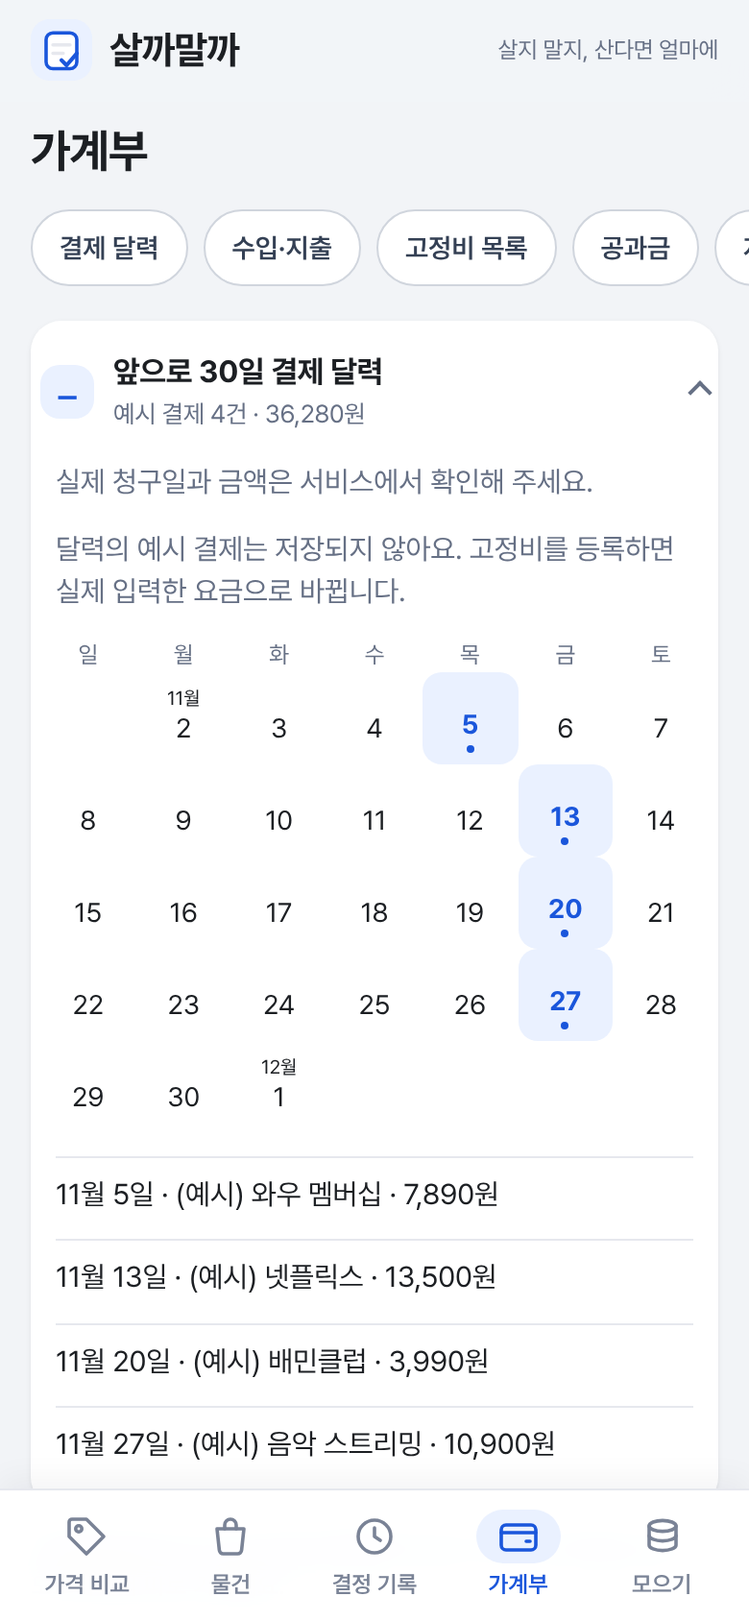
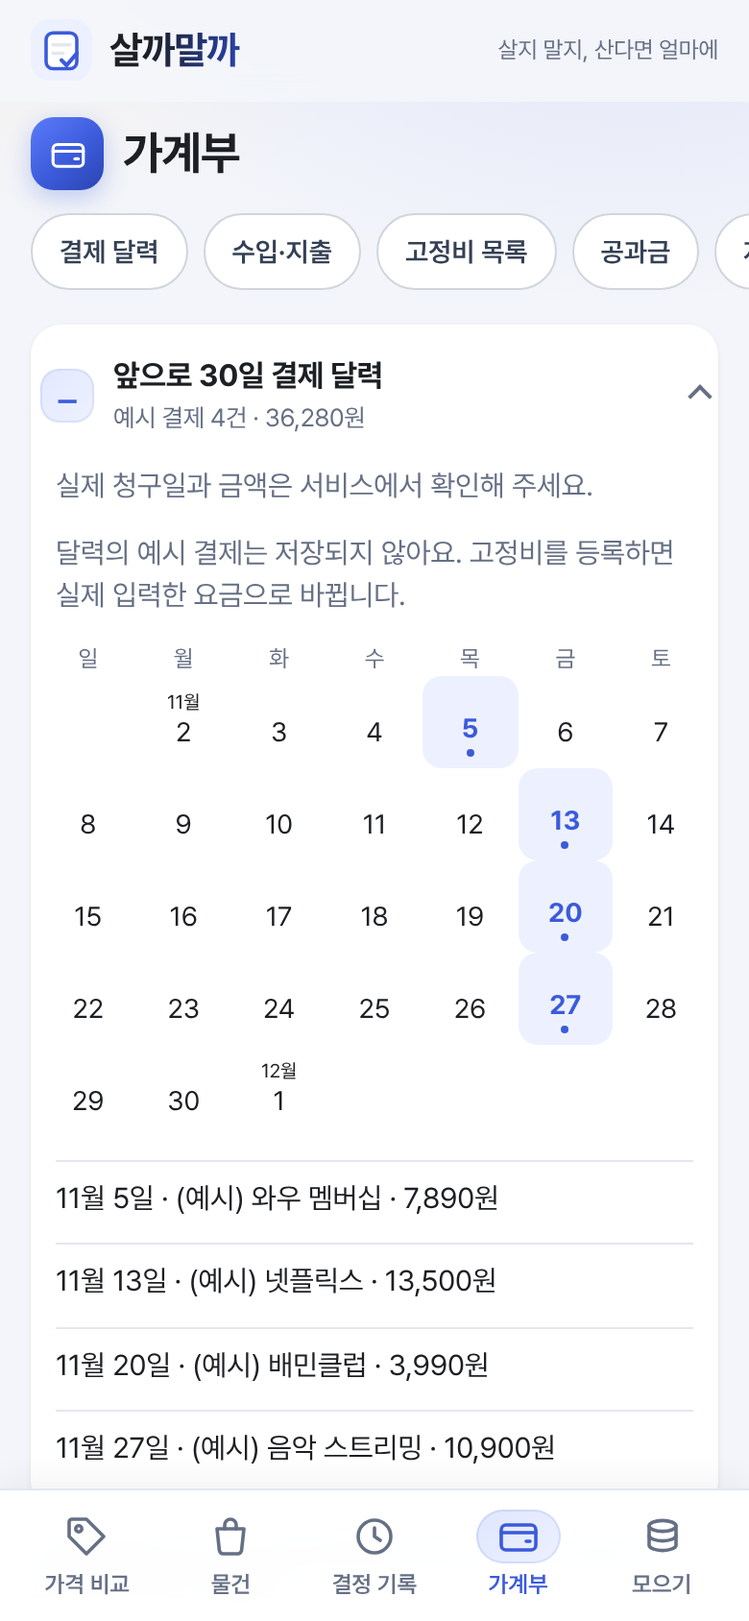
feat: refined blue palette with title badges and soft gradients
Third design pass, chosen by the maker from three color mockups; features
and copy unchanged.

- Accent #3b5bdb (5.67:1 on white), deep accent #2b44b0, background
  #f3f5fa, orange B-side marker; favicon and theme-color updated
- Inactive bottom-nav labels raised from 3.81:1 to 4.8:1 contrast
- Decorative icon badge before each screen title (aria-hidden), faint
  glow at the top of the page, gradient primary buttons and verdict box,
  gentle rise-in on tab change (off with prefers-reduced-motion)
- PRD 0.89, TODO 37-7, README screens recaptured

Checks: npm test 1994/1994, lint, tsc -b, eval tsc, PRD/TODO checks

Claude-Session: https://claude.ai/code/session_01S73EWn5NmGABmba2rb4uky

diff --git a/src/index.css b/src/index.css
@@ -1,13 +1,14 @@
 /* 디자인 토큰: 색상 4개(글자·보조 글자·강조·경고)와 회색 계열 보조 톤(배경·면·선·강조 바탕), 글꼴 하나
-   강조색은 밝은 배경 위에서 5.6:1, 강조 바탕 위에서 5.5:1로 WCAG AA(4.5:1)를 넘는다 */
+   강조색(2026-11-02 '세련된 블루' #3b5bdb)은 흰 바탕 5.67:1, 강조 바탕 위 5.03:1로 WCAG AA(4.5:1)를 넘는다.
+   아래 '디자인 개선' 절들이 이 값을 이어서 다듬는다 */
 :root {
   --bg: #f4f5f7;
   --surface: #ffffff;
   --ink: #1c1f23;
   --muted: #667085;
   --line: #e4e7ec;
-  --accent: #1a56db;
-  --accent-soft: #eaf1ff;
+  --accent: #3b5bdb;
+  --accent-soft: #edf1ff;
   --danger: #d92d20;
   --radius: 12px;
   --font:
@@ -1106,12 +1107,17 @@ button.payment-calendar-day {
    - 카드·입력·버튼의 모서리와 그림자, 글자 크기 단계를 하나로 맞춘다
    ─────────────────────────────────────────────────────────────── */
 :root {
-  --bg: #f2f4f7;
-  --surface-2: #f8f9fb;
-  --line: #e6e8ee;
+  /* 색감: 제작자 선택 '세련된 블루'(2026-11-02). 강조색 #3b5bdb는 흰 바탕 5.67:1, 바탕 #f3f5fa 5.2:1,
+     강조 바탕 #edf1ff 5.03:1, 진한 강조 #2b44b0은 강조 바탕 위 7.29:1로 모두 WCAG AA(4.5:1) 이상 */
+  --accent: #3b5bdb;
+  --accent-soft: #edf1ff;
+  --point: #f59f00;
+  --bg: #f3f5fa;
+  --surface-2: #f8f9fc;
+  --line: #e3e7f0;
   --line-strong: #d0d5dd;
   --ink-2: #344054;
-  --accent-ink: #1549b8;
+  --accent-ink: #2b44b0;
   --radius: 16px;
   --radius-sm: 12px;
   --shadow: 0 1px 2px rgb(16 24 40 / 4%), 0 1px 3px rgb(16 24 40 / 6%);
@@ -1135,7 +1141,7 @@ body {
   z-index: 20;
   margin: 0 -16px 8px;
   padding: 10px 16px;
-  background: rgb(242 244 247 / 92%);
+  background: rgb(243 245 250 / 92%);
   backdrop-filter: saturate(1.4) blur(10px);
   border-bottom: 1px solid transparent;
 }
@@ -1188,7 +1194,7 @@ body {
   border-radius: 12px;
   font-size: 12px;
   font-weight: 600;
-  color: #7a8396;
+  color: var(--muted); /* 흰 바탕 4.8:1 */
 }
 
 .tabs.tabs-main .tab-icon {
@@ -1221,7 +1227,7 @@ body {
   gap: 4px;
   padding: 4px;
   margin-bottom: 16px;
-  background: #e7eaf0;
+  background: #e4e8f2;
   border: 0;
   border-radius: 14px;
   overflow: visible;
@@ -1311,7 +1317,7 @@ main > section > details + details {
 .input:focus,
 .select:focus {
   border-color: var(--accent);
-  box-shadow: 0 0 0 4px rgb(26 86 219 / 12%);
+  box-shadow: 0 0 0 4px rgb(59 91 219 / 14%);
   outline: none;
 }
 
@@ -1355,7 +1361,7 @@ main > section > details + details {
 
 .btn-primary {
   min-height: 50px;
-  box-shadow: 0 1px 2px rgb(26 86 219 / 30%);
+  box-shadow: 0 1px 2px rgb(59 91 219 / 30%), 0 4px 12px rgb(59 91 219 / 16%);
 }
 
 .btn-primary:hover:not(:disabled) {
@@ -1632,7 +1638,7 @@ details[aria-label='자잘한 지출'] {
 
 .ab-grid > fieldset.card:nth-child(2) > legend.card-title::before,
 .ab-grid > form.card:nth-child(2) > .card-title:first-child::before {
-  background: #f79009;
+  background: var(--point);
 }
 
 /* 비교 결과: 결론 한 줄을 강조 바탕의 큰 글씨로. 카드 자체도 강조색 테두리 */
@@ -1739,4 +1745,136 @@ article.card [role='group'] .btn-row .btn {
   background: var(--surface-2);
   border-color: var(--line);
   border-radius: var(--radius-sm);
+}
+
+/* ───────────────────────────────────────────────────────────────
+   2026-11-02 디자인 개선 3차: 색감 '세련된 블루'와 장식 요소
+   모든 장식은 정보를 담지 않는다(아이콘은 aria-hidden, 그라데이션은 배경뿐)
+   ─────────────────────────────────────────────────────────────── */
+
+/* 화면 위쪽에 은은한 파란 빛. 아래로 갈수록 바탕색으로 사라진다 */
+body {
+  background:
+    radial-gradient(120% 340px at 85% -80px, rgb(59 91 219 / 13%), transparent 70%),
+    radial-gradient(90% 260px at 0% -60px, rgb(245 159 0 / 7%), transparent 70%),
+    var(--bg);
+  background-repeat: no-repeat;
+}
+
+.app-header {
+  background: rgb(243 245 250 / 94%);
+}
+
+/* 사이트 제목: 글자에 살짝 파란 그라데이션 */
+.brand {
+  background: linear-gradient(100deg, var(--ink) 30%, var(--accent-ink));
+  -webkit-background-clip: text;
+  background-clip: text;
+  color: transparent;
+}
+
+/* 화면 제목 앞의 아이콘 배지 */
+.screen-title {
+  display: flex;
+  align-items: center;
+  gap: 10px;
+}
+
+.title-icon {
+  display: grid;
+  place-items: center;
+  flex: none;
+  width: 38px;
+  height: 38px;
+  border-radius: 12px;
+  color: #fff;
+  background: linear-gradient(140deg, #5b7cfa, var(--accent) 55%, var(--accent-ink));
+  box-shadow: 0 4px 12px rgb(59 91 219 / 28%);
+}
+
+.title-icon svg {
+  width: 21px;
+  height: 21px;
+}
+
+/* 주 버튼: 위에서 아래로 살짝 밝아지는 파랑 */
+.btn-primary {
+  background: linear-gradient(180deg, #4c6ef5, var(--accent));
+  border-color: var(--accent);
+}
+
+.btn-primary:hover:not(:disabled) {
+  background: linear-gradient(180deg, var(--accent), var(--accent-ink));
+}
+
+/* 비교 결론 상자: 대각선 그라데이션과 왼쪽 강조선 */
+section.card[aria-label$='비교 결과'] > .price-lg {
+  background: linear-gradient(120deg, #edf1ff, #f5f0ff 60%, #fff7e6);
+  border-left: 4px solid var(--accent);
+}
+
+/* '이럴 때 써요' 결론 말풍선에도 같은 결 */
+.example-intro .intro-conclusion {
+  background: linear-gradient(120deg, #edf1ff, #f6f3ff);
+}
+
+/* 하단 메뉴: 선택된 아이콘 알약을 그라데이션으로, 위에 작은 막대 */
+.tabs.tabs-main .tab[aria-selected='true'] .tab-icon {
+  background: linear-gradient(140deg, #dfe6ff, var(--accent-soft));
+  box-shadow: inset 0 0 0 1px rgb(59 91 219 / 12%);
+}
+
+/* 접는 카드의 + 타일과 담기 + 타일을 작은 그라데이션 배지로 */
+.card.guide > summary.card-title::before,
+.entry-trigger::before {
+  background: linear-gradient(140deg, #e3e9ff, var(--accent-soft));
+  box-shadow: inset 0 0 0 1px rgb(59 91 219 / 10%);
+}
+
+/* 상태 알약(고민 중 · 3일 남음 등)의 바탕을 조금 더 또렷하게 */
+.status {
+  background: linear-gradient(140deg, #e6ecff, var(--accent-soft));
+}
+
+.status-muted {
+  background: #eef0f5;
+}
+
+/* 메뉴·하위 탭을 바꾸면 내용이 살짝 떠오르며 나타난다 */
+@keyframes rise-in {
+  from {
+    opacity: 0;
+    transform: translateY(6px);
+  }
+  to {
+    opacity: 1;
+    transform: none;
+  }
+}
+
+[role='tabpanel']:not([hidden]) {
+  animation: rise-in 0.22s ease-out;
+}
+
+/* 결과 카드가 처음 나타날 때도 같은 움직임 */
+section.card[aria-label$='비교 결과'] {
+  animation: rise-in 0.25s ease-out;
+}
+
+/* 카드에 손가락·마우스를 올리면 아주 살짝 떠오른다(넓은 화면) */
+@media (hover: hover) {
+  article.card {
+    transition: box-shadow 0.15s ease, transform 0.15s ease;
+  }
+
+  article.card:hover {
+    box-shadow: var(--shadow-lift);
+  }
+}
+
+@media (prefers-reduced-motion: reduce) {
+  [role='tabpanel']:not([hidden]),
+  section.card[aria-label$='비교 결과'] {
+    animation: none;
+  }
 }

diff --git a/src/App.tsx b/src/App.tsx
@@ -184,7 +184,7 @@ export default function App() {
           <AfterBuySection wishlist={wishlist} today={wishlist.now} focusItemId={screen === 'history' && jump?.screen === 'history' ? jump.id : undefined} onFocusDone={() => setJump(null)} />
         </TabPanel>
         <TabPanel id="subscriptions" hidden={screen !== 'subscriptions'}>
-          <h2 className="screen-title">가계부</h2>
+          <h2 className="screen-title"><span className="title-icon" aria-hidden="true"><IconWallet /></span>가계부</h2>
           <JumpNav label="가계부 안에서 이동" targets={LEDGER_JUMPS} />
           <PaymentCalendarSection subscriptions={subscriptions.items} today={wishlist.now} />
           <LedgerSection ledger={ledger} bills={bills.store} spending={spending.store} today={wishlist.now} />

diff --git a/src/screens/CompareScreen.tsx b/src/screens/CompareScreen.tsx
@@ -1,3 +1,4 @@
+import { IconTag } from '../ui/NavIcons'
 import { useEffect, useId, useRef, useState } from 'react'
 import { aiServerUrl } from '../ai/config'
 import {
@@ -68,7 +69,7 @@ export function CompareScreen({
   const withAi = aiServerUrl() !== null
   return (
     <div className="stack">
-      <h2 className="screen-title">가격 비교</h2>
+      <h2 className="screen-title"><span className="title-icon" aria-hidden="true"><IconTag /></span>가격 비교</h2>
       <Tabs label="가격 비교 종류" tabs={withAi ? KINDS_WITH_AI : KINDS_WITH_DEMO} value={kind} onChange={setKind} sub />
       <TabPanel id="discount" hidden={kind !== 'discount'}>
         <DiscountCompare onAdd={onAddToWishlist} startWithExample={startWithExample} />

diff --git a/src/screens/WishlistScreen.tsx b/src/screens/WishlistScreen.tsx
@@ -1,3 +1,4 @@
+import { IconBag } from '../ui/NavIcons'
 import { useEffect, useId, useRef, useState, type FormEvent, type Ref } from 'react'
 import { aiServerUrl } from '../ai/config'
 import type { VoiceFillResponse } from '../ai/types'
@@ -164,6 +165,7 @@ export function WishlistScreen({
   return (
     <div className="stack">
       <h2 className="screen-title" tabIndex={-1} ref={headingRef}>
+        <span className="title-icon" aria-hidden="true"><IconBag /></span>
         고민 중인 물건
       </h2>
       <div role="status" aria-label="결정 알림" className={undo && undoActive ? undefined : 'similar-empty'}>

diff --git a/src/screens/HistoryScreen.tsx b/src/screens/HistoryScreen.tsx
@@ -1,3 +1,4 @@
+import { IconHistory } from '../ui/NavIcons'
 import { useEffect, useId, useRef, useState, type FormEvent } from 'react'
 import { formatDate } from '../logic/dates'
 import { desirePointCount, desireTrend } from '../logic/desire'
@@ -49,6 +50,7 @@ export function HistoryScreen({ items, now, hourlyWage, onWageChange, onReview, 
   return (
     <div className="stack">
       <h2 className="screen-title" tabIndex={-1} ref={headingRef}>
+        <span className="title-icon" aria-hidden="true"><IconHistory /></span>
         결정 기록
       </h2>
       {history.length === 0 ? (

diff --git a/src/screens/SavingsScreen.tsx b/src/screens/SavingsScreen.tsx
@@ -1,3 +1,4 @@
+import { IconCoins } from '../ui/NavIcons'
 import { useEffect, useLayoutEffect, useRef, useState, type FormEvent, type ReactNode } from 'react'
 import {
   GOAL_EMPTY_NOTE,
@@ -86,6 +87,7 @@ export function SavingsScreen({ items, subscriptions, savings, pantry, spending,
   return (
     <div className="stack">
       <h2 className="screen-title" tabIndex={-1} ref={headingRef}>
+        <span className="title-icon" aria-hidden="true"><IconCoins /></span>
         모으기
       </h2>
       <SavingsBanner

diff --git a/index.html b/index.html
@@ -3,7 +3,7 @@
   <head>
     <meta charset="UTF-8" />
     <meta name="viewport" content="width=device-width, initial-scale=1.0" />
-    <meta name="theme-color" content="#1a56db" />
+    <meta name="theme-color" content="#3b5bdb" />
     <meta name="description" content="사고 싶은 물건은 한 번 더 생각하고, 사기로 했다면 더 싸게 사도록 돕는 웹사이트" />
     <link rel="icon" type="image/svg+xml" href="/favicon.svg" />
     <title>살까말까</title>

diff --git a/PRD.md b/PRD.md
@@ -1,9 +1,9 @@
 # 살까말까 PRD
 
-현재 개정: **0.88** · 가격 비교 입력 2열·결과 강조·물건 카드 구역 구분, 기능 변경 없음 (2026-11-02) · 0.87 · 하단 메뉴·분할 하위 탭·가계부 바로가기 등 배치와 모양 개선, 기능 변경 없음 (2026-11-02) · 0.86 · 문서 정정만: 공개 사이트의 AI 표시 문장을 F83에 맞추고 화면 전후 사진을 같은 조건으로 다시 찍음, 기능 변경 없음 (2026-11-02) · 0.85 · 가계부 달력 우선 배치와 저장되지 않는 예시, 공개 사진 시연 (2026-11-02)
+현재 개정: **0.89** · 색감 '세련된 블루'와 제목 아이콘·그라데이션 등 장식, 기능 변경 없음 (2026-11-02) · 0.88 · 가격 비교 입력 2열·결과 강조·물건 카드 구역 구분, 기능 변경 없음 (2026-11-02) · 0.87 · 하단 메뉴·분할 하위 탭·가계부 바로가기 등 배치와 모양 개선, 기능 변경 없음 (2026-11-02) · 0.86 · 문서 정정만: 공개 사이트의 AI 표시 문장을 F83에 맞추고 화면 전후 사진을 같은 조건으로 다시 찍음, 기능 변경 없음 (2026-11-02) · 0.85 · 가계부 달력 우선 배치와 저장되지 않는 예시, 공개 사진 시연 (2026-11-02)
 
 작성일: 2026-10-11  
-버전: 0.88 · 1장 디자인 방향에 비교 입력 2열·결과 강조·물건 카드 구분선 추가, 기능·문구 변경 없음(2026-11-02 제작자 "좀 더 개선") · 0.87 · 1장 디자인 방향에 하단 메뉴·분할 하위 탭·가계부 바로가기와 카드·입력 모양을 추가, 기능·문구 변경 없음(2026-11-02 제작자 요청) · 0.86 · 문서 정정만: 4장의 공개 사이트 AI 문장을 F83의 저장된 예시와 맞추고 화면 전후 사진의 촬영 조건을 적음, 기능 변경 없음(2026-11-02) · 0.85 · 가계부 달력 우선 배치와 저장되지 않는 예시, 공개 사진 시연(2026-11-02) · 0.83 · 고정비·모으기 화면 순서와 기본 접힘, 지원 제도 안내 및 발표 전후 비교를 보강(2026-11-02 제작자 요청) · 0.82 · 1차 이후 비AI 기능을 분야별로 대조하고 AI 재검증 기록을 연결(2026-11-02 제작자 요청) · 0.81 · 1차 이후 추가·수정 요구사항 표시와 화면 전후 비교(2026-11-02 제작자 요청) · 0.80 · 가격 비교·사진 첫 화면과 장보기·사기 전 입력 동선 보강(F31·F49·F75·F76·F79·F81, AC195~AC202; 2026-11-02 제작자 UX 요청) · 0.78 · 9장 자동 테스트 수를 AC01~AC194·1983개로 정정(2026-11-02, 28단계 보강 뒤) · 0.77 · 자잘한 지출에서 한 주 시도 선택·저장·완료 보강(F78, AC192~AC194; 2026-11-02 최종 점검) · 0.76 · 9장 자동 테스트 수를 AC01~AC191·1979개로 정정(2026-11-02, 25~27단계 구현 뒤) · 0.75 · 정기배송 결제일과 7일 비교 기간의 화면 문구를 명확히 함(2026-11-02 구현 뒤 점검) · 0.74 · 이번 주 집밥·정기배송 중복·작은 지출 시도·사기 전 요약·결제 전 확인·상황별 시작(F76~F81, AC180~AC191; 2026-11-02 제작자 “전부다 수행해보자”) · 0.73 · 9장 자동 테스트 수 정정: AC01~AC171·1952개 → AC01~AC179·1965개(2026-11-02, 결제 달력·장보기 초안 구현 뒤) · 0.72 · 30일 결제 달력·장보기 초안(F74~F75, AC172~AC179; 2026-11-02 제작자 "두개다 ㅅ", 세부는 9장 확인 전) · 0.71 · 9장 자동 테스트 수 정정: AC01~AC162·1938개 → AC01~AC171·1952개(2026-11-02, 사용 흐름 개선 구현 뒤) · 0.70 · F73 빠른 담기에 맞춰 첫 화면 설명을 짧게 고침(AC79, 2026-11-02 제작자 입력 부담 피드백) · 0.69 · F73 빠른 담기에서 F31 사진 초안의 이유 필수 안내와 AC54 기대를 선택 입력에 맞춤(2026-11-02, 23-4 구현 중) · 0.68 · 오늘 확인할 것·빠른 물건 담기(F72~F73, F01·F24·F30 보강, AC163~AC171; 2026-11-02 제작자 추가 기능 방향 동의, 세부는 9장 확인 전) · 0.67 · 9장 자동 테스트 수 정정: AC01~AC150·1917개 → AC01~AC162·1938개(2026-11-02, 절약·저축 4단계와 백업 화면 시험 뒤) · 0.66 · 1장 디자인 방향에 제작자 화면 피드백과 공통 그림·접힘 표시 반영(2026-11-02) · 0.65 · F71 친구 정산 화면·오류 문장 명시(2026-11-02, 4단계 Task 5, 9장 제작자 확인 대기) · 0.64 · F70 포인트·쿠폰 입력·오류 문장 명시(2026-11-02, 4단계 Task 4, 9장 제작자 확인 대기) · 0.63 · F69 카드 실적 입력·오류 문장과 해당 월 범위 명시(2026-11-02, 4단계 Task 3, 9장 제작자 확인 대기) · 0.62 · F68 공식 안내와 저장 상태의 화면 문장을 명시(2026-11-02, 4단계 Task 2, 9장 제작자 확인 대기) · 0.61 · 절약·저축 4단계 받을 수 있는 돈(F68~F71·F20 보강, AC151~AC162; 2026-11-02 설계 P4·제작자 요청, 새 결정은 9장 제작자 확인 전) · 0.60 · 9장 자동 테스트 수 정정: AC01~AC132·1880개 → AC01~AC150·1917개(2026-11-02, 절약·저축 3단계와 담기 화면 개선 뒤) · 0.59 · 담기 폼 접기·쓰는 곳 후보 펼치기(F24·F45·F51, AC149~AC150; 2026-11-02 제작자 화면 요청) · 0.58 · 0.57 버전 줄의 출처 문장을 9장 결정 목록 참조로 바로잡음(2026-11-01) · 0.57 · F66·F67 모으기 별도 금액 안내 문장 명시(2026-11-01, 3단계 Task 7 준비, 9장 제작자 확인 대기) · 0.56 · 절약·저축 3단계 사기 전·산 뒤(F61~F67, F20 보강, AC133~AC148; 2026-11-01 제작자 요청·설계 P3, 새 결정은 9장 제작자 확인 전) · 0.55 · 9장 자동 테스트 수 정정: AC01~AC116·1833개 → AC01~AC132·1880개(2026-11-01, 절약·저축 2단계 구현·전체 리뷰 뒤) · 0.54 · F60 배달 비교 화면 문장·최소 주문 미달 때 무료배달 비교 숨김 명시(2026-11-01, 2단계 Task 8, Claude 결정·제작자 확인 전) · 0.53 · F59 자잘한 지출 화면·저장 안내 문장 명시(2026-11-01, 2단계 Task 7 준비, Claude 결정·제작자 확인 전) · 0.52 · F58 있어서 안 산 성공 안내와 모으기 설명 명시(2026-11-01, 2단계 Task 6 준비, Claude 결정·제작자 확인 전) · 0.51 · F57 모으기의 대체 금액 문장과 빈 상태 기준 명시(2026-11-01, 2단계 Task 5 준비, Claude 결정·제작자 확인 전) · 0.50 · F54 화면·저장 안내 문장 명시(2026-11-01, 2단계 Task 2 준비, Claude 결정·제작자 확인 전) · 0.49 · 절약·저축 P2 집에 있는 것·자잘한 지출(F54~F60, F20 보강, AC117~AC132; 2026-11-01 제작자 요청과 설계 P2, 새 결정은 9장 제작자 확인 전) · 0.48 · 9장 최종 완성 기준 자동 테스트 수 정정: AC01~AC99·1741개 → AC01~AC116·1833개(2026-11-01, 절약·저축 1b 구현 뒤 전체 테스트) · 0.47 · F52 통신 비교 링크에서 스마트초이스를 제외함(2026-11-01, 20초 재확인에도 이 환경에서 접속하지 못함) · 0.46 · 절약·저축 1b: 요금 바뀜 기록(F50, 내가 낮춘 요금은 모으기의 줄어든 고정비에)·같은 곳에 쓰는 구독·멤버십(F51)·통신 약정과 요금 비교 링크(F52)·수도·가스·전기 요금(F53, 새 키 `buyornot.bills.v1`)·정기배송 주마다와 고정비 저장 안내 이름(F45 보강)·무료 체험 끝나기 전날 캘린더(F46 보강)·해지한 날과 요금 바뀐 날(F47 보강)·백업 v2에 공과금(F20 보강), AC100~AC116, AC84 기대 문장(2026-11-01, 설계 문서 P1b와 총괄 판정 R45·R46·R47을 따름. 새 동작은 모두 9장 '절약·저축 1b에서 정한 것'에 제작자 확인 전으로 있음) · 0.45 · 9장 최종 완성 기준의 자동 테스트 수 정정: AC01~AC80·1551개 → AC01~AC99·1741개, 9장 정하지 못한 것에 고정비 종류를 바꿀 때의 안내 질문 한 줄(2026-11-01, 절약·저축 1a 최종 검토 뒤) · 0.44 · 절약·저축 1a: 고정비 정리함(F45, 구독 탭을 넓힘)·무료 체험 끝나는 날(F46)·해지했어요(F47)·모으기(F48, 줄어든 고정비·참은 구매·옮긴 돈을 따로, 저축 목표)·주요 메뉴 다섯 개(F49)·백업 v2(F20 보강), AC81~AC99(2026-11-01, 설계 문서·GPT 53번 상담·빌더 점검 뒤 총괄 판정을 따름. 새 동작은 모두 9장 '절약·저축 1a에서 정한 것'에 제작자 확인 전으로 있음) · 0.43 · F44 캡처 크게 보기(R29-N1) 이유에 10/31 정정을 덧붙임: 근거로 적은 평가 A H1은 남아 있던 모의 응답이었다(2026-10-31, 평가 C) · 0.42 · F24 완료 기준에 AC80 연결(2026-10-31, 개발 2회차 최종 재검토) · 0.41 · 9장 최종 완성 기준의 자동 테스트 수 정정: AC01~AC79·1544개 → AC01~AC80·1551개(2026-10-31, 개발 2회차 전체 리뷰 뒤) · 0.40 · 담은 물건을 바로 결정하거나 지우면 담은 직후 안내와 '방금 담았어요.'도 사라짐(F24, 판정 R43, AC80, 2026-10-31 개발 2회차 전체 리뷰, Claude 결정·제작자 확인 전) · 0.39 · 9장 최종 완성 기준의 자동 테스트 수 정정: AC01~AC68·1465개 → AC01~AC79·1544개(2026-10-31, 평가 B P10, 판정 R38) · 0.38 · 평가 2회차(평가 B) 개선: Gemini가 429를 주면 `429 upstream_limited`와 새 실패 문구, 키가 없거나 비면 Gemini를 부르지 않고 `503 disabled`(10장 AI 공통·F43, 판정 R38-P6), F32 확인 상자 첫 줄 'AI가 읽은 내용'과 F32·F44 확인 상자 첫 줄을 상자 설명으로(R38-I8·R38-P9), 구매함으로 옮긴 직후 회고 안내 한 줄(F18, R38-N3), 빈 목록일 때 서비스 설명 문장을 담기 폼 위로(F24, R38-I3), AC60 기대값, AC75~AC79(2026-10-31, 평가 B, GPT 51번, Claude 결정, 제작자 확인 전) · 0.37 · F44 치수 읽기 문구(R29-I1)의 이유에 정정: 평가 때 본 사진에 없는 치수는 남아 있던 모의 응답이었음(2026-10-31, 평가 B 뒤 확인) · 0.36 · 다른 탭 때문에 담기가 반영되지 않으면 담은 직후 안내를 띄우지 않고 입력을 그대로 둠(F24, 판정 R30), 8장 기술 문장의 '서버를 쓰지 않음' 정정(2026-10-31, 개발 1회차 준비, Claude 결정·제작자 확인 전) · 0.35 · 평가 1회차 고칠 것: 9장 남은 결정을 한 줄씩 목록으로 바꾸고 빠진 결정을 채움(P5), 사진 초안 링크 비우기(F31, 판정 R29-P2), 담은 직후 새 카드로(F24, R29-P3), 치수 읽기 'AI가 읽은 내용'(F44, R29-I1)·캡처 크게 보기(F44, R29-N1), 결과 화면 문구(F31·F32·F06, R29-I2), AC69~AC74, 9장 테스트 수·AC63 시험용 값 정정(2026-10-31, 평가 1회차 결정, GPT 50번, Claude 결정·제작자 확인 전) · 0.34: Gemini 출력 길이 상한(가격표 6144·나머지 4096)과 치수를 글자로 받기(판정 R25~R27, 2026-10-31, GPT 49번, Claude 결정·제작자 확인 전) · 0.33: F44 2단계 표기 세부(모르는 축 '모름', 상태 이름 위치, 판정 R23, 2026-10-30, Claude 결정·제작자 확인 전) · 0.32: AC65 '다른 탭에서 결정된 뒤 저장'을 기존 여러 탭 규칙(AC37-2)과 맞춤(판정 R22, 2026-10-30, Claude 결정·제작자 확인 전) · 0.31: F43 '더 읽음' 문장의 조사를 AC63 예와 맞춤({상품을|표기를}, 2026-10-30 구현 중) · 0.30: F31 상품명이 비면 온라인 확인을 막고 "상품명을 적어 주세요"·상품명 칸 80자 상한(최종 리뷰, 2026-10-30, Claude 결정·제작자 확인 전) · 0.29: F43 채점 세부(단가 가격표 정답·최저가가 같은 허용 줄·모양이 다른 응답, 판정 R14·R15, 2026-10-30, Claude 결정·제작자 확인 전) · 0.28: F33 녹음 형식이 비면 보내지 않음(R11)·받아쓰는 중 메뉴 이동은 계속(R12)·담아 두면 녹음·받아쓰기를 끊음(R13)(2026-10-30, Claude 결정·제작자 확인 전) · 0.27: F33 받아쓴 말이 비면 첫 안내 줄을 뺌(판정 R10)·'을/를 채웠어요'(2026-10-30, Claude 결정·제작자 확인 전) · 0.26: 구현 중 정한 것 반영: 사진 고르기에 capture 없음, F31 진행 문구·결과 제목, F32 상품 0개 문장·단위를 고른 뒤 채울 값 다시 보이기·'개'를 고르면 계산용 개수 비움(2026-10-30, 판정 R7~R9, Claude 결정·제작자 확인 전) · 0.25: 앱 사진 대기 상한 45초 → 60초(요청 하나마다, 서버 55초 + 5초, 2026-10-30, GPT 45번, Claude 결정·제작자 확인 전) · 0.24: 1단계 이어서 F43 AI 성적표·F44 놓을 자리 확인(2026-10-29, GPT 37~41번 상담 반영) · 0.23: 중간 과제 AI 기능 1단계 명세(F31~F33·F35, 2026-10-28, GPT 33~36번 상담 반영) · 0.22까지: 4차 추가(고민 노트) + 다듬기 + 구독 이용 분석 1단계(넷플릭스 시청 기록 파일) + 카드·담기 폼 체크리스트 + 회고를 비슷한 기록에 연결 + 오늘의 고민으로 이동 + 묶음 비교에 한 달에 쓰는 양, 무료배송 탭 뺌(10/13)
+버전: 0.89 · 1장 디자인 방향의 강조색을 제작자가 고른 '세련된 블루'(#3b5bdb)로 바꾸고 장식 요소를 정함(2026-11-02) · 0.88 · 1장 디자인 방향에 비교 입력 2열·결과 강조·물건 카드 구분선 추가, 기능·문구 변경 없음(2026-11-02 제작자 "좀 더 개선") · 0.87 · 1장 디자인 방향에 하단 메뉴·분할 하위 탭·가계부 바로가기와 카드·입력 모양을 추가, 기능·문구 변경 없음(2026-11-02 제작자 요청) · 0.86 · 문서 정정만: 4장의 공개 사이트 AI 문장을 F83의 저장된 예시와 맞추고 화면 전후 사진의 촬영 조건을 적음, 기능 변경 없음(2026-11-02) · 0.85 · 가계부 달력 우선 배치와 저장되지 않는 예시, 공개 사진 시연(2026-11-02) · 0.83 · 고정비·모으기 화면 순서와 기본 접힘, 지원 제도 안내 및 발표 전후 비교를 보강(2026-11-02 제작자 요청) · 0.82 · 1차 이후 비AI 기능을 분야별로 대조하고 AI 재검증 기록을 연결(2026-11-02 제작자 요청) · 0.81 · 1차 이후 추가·수정 요구사항 표시와 화면 전후 비교(2026-11-02 제작자 요청) · 0.80 · 가격 비교·사진 첫 화면과 장보기·사기 전 입력 동선 보강(F31·F49·F75·F76·F79·F81, AC195~AC202; 2026-11-02 제작자 UX 요청) · 0.78 · 9장 자동 테스트 수를 AC01~AC194·1983개로 정정(2026-11-02, 28단계 보강 뒤) · 0.77 · 자잘한 지출에서 한 주 시도 선택·저장·완료 보강(F78, AC192~AC194; 2026-11-02 최종 점검) · 0.76 · 9장 자동 테스트 수를 AC01~AC191·1979개로 정정(2026-11-02, 25~27단계 구현 뒤) · 0.75 · 정기배송 결제일과 7일 비교 기간의 화면 문구를 명확히 함(2026-11-02 구현 뒤 점검) · 0.74 · 이번 주 집밥·정기배송 중복·작은 지출 시도·사기 전 요약·결제 전 확인·상황별 시작(F76~F81, AC180~AC191; 2026-11-02 제작자 “전부다 수행해보자”) · 0.73 · 9장 자동 테스트 수 정정: AC01~AC171·1952개 → AC01~AC179·1965개(2026-11-02, 결제 달력·장보기 초안 구현 뒤) · 0.72 · 30일 결제 달력·장보기 초안(F74~F75, AC172~AC179; 2026-11-02 제작자 "두개다 ㅅ", 세부는 9장 확인 전) · 0.71 · 9장 자동 테스트 수 정정: AC01~AC162·1938개 → AC01~AC171·1952개(2026-11-02, 사용 흐름 개선 구현 뒤) · 0.70 · F73 빠른 담기에 맞춰 첫 화면 설명을 짧게 고침(AC79, 2026-11-02 제작자 입력 부담 피드백) · 0.69 · F73 빠른 담기에서 F31 사진 초안의 이유 필수 안내와 AC54 기대를 선택 입력에 맞춤(2026-11-02, 23-4 구현 중) · 0.68 · 오늘 확인할 것·빠른 물건 담기(F72~F73, F01·F24·F30 보강, AC163~AC171; 2026-11-02 제작자 추가 기능 방향 동의, 세부는 9장 확인 전) · 0.67 · 9장 자동 테스트 수 정정: AC01~AC150·1917개 → AC01~AC162·1938개(2026-11-02, 절약·저축 4단계와 백업 화면 시험 뒤) · 0.66 · 1장 디자인 방향에 제작자 화면 피드백과 공통 그림·접힘 표시 반영(2026-11-02) · 0.65 · F71 친구 정산 화면·오류 문장 명시(2026-11-02, 4단계 Task 5, 9장 제작자 확인 대기) · 0.64 · F70 포인트·쿠폰 입력·오류 문장 명시(2026-11-02, 4단계 Task 4, 9장 제작자 확인 대기) · 0.63 · F69 카드 실적 입력·오류 문장과 해당 월 범위 명시(2026-11-02, 4단계 Task 3, 9장 제작자 확인 대기) · 0.62 · F68 공식 안내와 저장 상태의 화면 문장을 명시(2026-11-02, 4단계 Task 2, 9장 제작자 확인 대기) · 0.61 · 절약·저축 4단계 받을 수 있는 돈(F68~F71·F20 보강, AC151~AC162; 2026-11-02 설계 P4·제작자 요청, 새 결정은 9장 제작자 확인 전) · 0.60 · 9장 자동 테스트 수 정정: AC01~AC132·1880개 → AC01~AC150·1917개(2026-11-02, 절약·저축 3단계와 담기 화면 개선 뒤) · 0.59 · 담기 폼 접기·쓰는 곳 후보 펼치기(F24·F45·F51, AC149~AC150; 2026-11-02 제작자 화면 요청) · 0.58 · 0.57 버전 줄의 출처 문장을 9장 결정 목록 참조로 바로잡음(2026-11-01) · 0.57 · F66·F67 모으기 별도 금액 안내 문장 명시(2026-11-01, 3단계 Task 7 준비, 9장 제작자 확인 대기) · 0.56 · 절약·저축 3단계 사기 전·산 뒤(F61~F67, F20 보강, AC133~AC148; 2026-11-01 제작자 요청·설계 P3, 새 결정은 9장 제작자 확인 전) · 0.55 · 9장 자동 테스트 수 정정: AC01~AC116·1833개 → AC01~AC132·1880개(2026-11-01, 절약·저축 2단계 구현·전체 리뷰 뒤) · 0.54 · F60 배달 비교 화면 문장·최소 주문 미달 때 무료배달 비교 숨김 명시(2026-11-01, 2단계 Task 8, Claude 결정·제작자 확인 전) · 0.53 · F59 자잘한 지출 화면·저장 안내 문장 명시(2026-11-01, 2단계 Task 7 준비, Claude 결정·제작자 확인 전) · 0.52 · F58 있어서 안 산 성공 안내와 모으기 설명 명시(2026-11-01, 2단계 Task 6 준비, Claude 결정·제작자 확인 전) · 0.51 · F57 모으기의 대체 금액 문장과 빈 상태 기준 명시(2026-11-01, 2단계 Task 5 준비, Claude 결정·제작자 확인 전) · 0.50 · F54 화면·저장 안내 문장 명시(2026-11-01, 2단계 Task 2 준비, Claude 결정·제작자 확인 전) · 0.49 · 절약·저축 P2 집에 있는 것·자잘한 지출(F54~F60, F20 보강, AC117~AC132; 2026-11-01 제작자 요청과 설계 P2, 새 결정은 9장 제작자 확인 전) · 0.48 · 9장 최종 완성 기준 자동 테스트 수 정정: AC01~AC99·1741개 → AC01~AC116·1833개(2026-11-01, 절약·저축 1b 구현 뒤 전체 테스트) · 0.47 · F52 통신 비교 링크에서 스마트초이스를 제외함(2026-11-01, 20초 재확인에도 이 환경에서 접속하지 못함) · 0.46 · 절약·저축 1b: 요금 바뀜 기록(F50, 내가 낮춘 요금은 모으기의 줄어든 고정비에)·같은 곳에 쓰는 구독·멤버십(F51)·통신 약정과 요금 비교 링크(F52)·수도·가스·전기 요금(F53, 새 키 `buyornot.bills.v1`)·정기배송 주마다와 고정비 저장 안내 이름(F45 보강)·무료 체험 끝나기 전날 캘린더(F46 보강)·해지한 날과 요금 바뀐 날(F47 보강)·백업 v2에 공과금(F20 보강), AC100~AC116, AC84 기대 문장(2026-11-01, 설계 문서 P1b와 총괄 판정 R45·R46·R47을 따름. 새 동작은 모두 9장 '절약·저축 1b에서 정한 것'에 제작자 확인 전으로 있음) · 0.45 · 9장 최종 완성 기준의 자동 테스트 수 정정: AC01~AC80·1551개 → AC01~AC99·1741개, 9장 정하지 못한 것에 고정비 종류를 바꿀 때의 안내 질문 한 줄(2026-11-01, 절약·저축 1a 최종 검토 뒤) · 0.44 · 절약·저축 1a: 고정비 정리함(F45, 구독 탭을 넓힘)·무료 체험 끝나는 날(F46)·해지했어요(F47)·모으기(F48, 줄어든 고정비·참은 구매·옮긴 돈을 따로, 저축 목표)·주요 메뉴 다섯 개(F49)·백업 v2(F20 보강), AC81~AC99(2026-11-01, 설계 문서·GPT 53번 상담·빌더 점검 뒤 총괄 판정을 따름. 새 동작은 모두 9장 '절약·저축 1a에서 정한 것'에 제작자 확인 전으로 있음) · 0.43 · F44 캡처 크게 보기(R29-N1) 이유에 10/31 정정을 덧붙임: 근거로 적은 평가 A H1은 남아 있던 모의 응답이었다(2026-10-31, 평가 C) · 0.42 · F24 완료 기준에 AC80 연결(2026-10-31, 개발 2회차 최종 재검토) · 0.41 · 9장 최종 완성 기준의 자동 테스트 수 정정: AC01~AC79·1544개 → AC01~AC80·1551개(2026-10-31, 개발 2회차 전체 리뷰 뒤) · 0.40 · 담은 물건을 바로 결정하거나 지우면 담은 직후 안내와 '방금 담았어요.'도 사라짐(F24, 판정 R43, AC80, 2026-10-31 개발 2회차 전체 리뷰, Claude 결정·제작자 확인 전) · 0.39 · 9장 최종 완성 기준의 자동 테스트 수 정정: AC01~AC68·1465개 → AC01~AC79·1544개(2026-10-31, 평가 B P10, 판정 R38) · 0.38 · 평가 2회차(평가 B) 개선: Gemini가 429를 주면 `429 upstream_limited`와 새 실패 문구, 키가 없거나 비면 Gemini를 부르지 않고 `503 disabled`(10장 AI 공통·F43, 판정 R38-P6), F32 확인 상자 첫 줄 'AI가 읽은 내용'과 F32·F44 확인 상자 첫 줄을 상자 설명으로(R38-I8·R38-P9), 구매함으로 옮긴 직후 회고 안내 한 줄(F18, R38-N3), 빈 목록일 때 서비스 설명 문장을 담기 폼 위로(F24, R38-I3), AC60 기대값, AC75~AC79(2026-10-31, 평가 B, GPT 51번, Claude 결정, 제작자 확인 전) · 0.37 · F44 치수 읽기 문구(R29-I1)의 이유에 정정: 평가 때 본 사진에 없는 치수는 남아 있던 모의 응답이었음(2026-10-31, 평가 B 뒤 확인) · 0.36 · 다른 탭 때문에 담기가 반영되지 않으면 담은 직후 안내를 띄우지 않고 입력을 그대로 둠(F24, 판정 R30), 8장 기술 문장의 '서버를 쓰지 않음' 정정(2026-10-31, 개발 1회차 준비, Claude 결정·제작자 확인 전) · 0.35 · 평가 1회차 고칠 것: 9장 남은 결정을 한 줄씩 목록으로 바꾸고 빠진 결정을 채움(P5), 사진 초안 링크 비우기(F31, 판정 R29-P2), 담은 직후 새 카드로(F24, R29-P3), 치수 읽기 'AI가 읽은 내용'(F44, R29-I1)·캡처 크게 보기(F44, R29-N1), 결과 화면 문구(F31·F32·F06, R29-I2), AC69~AC74, 9장 테스트 수·AC63 시험용 값 정정(2026-10-31, 평가 1회차 결정, GPT 50번, Claude 결정·제작자 확인 전) · 0.34: Gemini 출력 길이 상한(가격표 6144·나머지 4096)과 치수를 글자로 받기(판정 R25~R27, 2026-10-31, GPT 49번, Claude 결정·제작자 확인 전) · 0.33: F44 2단계 표기 세부(모르는 축 '모름', 상태 이름 위치, 판정 R23, 2026-10-30, Claude 결정·제작자 확인 전) · 0.32: AC65 '다른 탭에서 결정된 뒤 저장'을 기존 여러 탭 규칙(AC37-2)과 맞춤(판정 R22, 2026-10-30, Claude 결정·제작자 확인 전) · 0.31: F43 '더 읽음' 문장의 조사를 AC63 예와 맞춤({상품을|표기를}, 2026-10-30 구현 중) · 0.30: F31 상품명이 비면 온라인 확인을 막고 "상품명을 적어 주세요"·상품명 칸 80자 상한(최종 리뷰, 2026-10-30, Claude 결정·제작자 확인 전) · 0.29: F43 채점 세부(단가 가격표 정답·최저가가 같은 허용 줄·모양이 다른 응답, 판정 R14·R15, 2026-10-30, Claude 결정·제작자 확인 전) · 0.28: F33 녹음 형식이 비면 보내지 않음(R11)·받아쓰는 중 메뉴 이동은 계속(R12)·담아 두면 녹음·받아쓰기를 끊음(R13)(2026-10-30, Claude 결정·제작자 확인 전) · 0.27: F33 받아쓴 말이 비면 첫 안내 줄을 뺌(판정 R10)·'을/를 채웠어요'(2026-10-30, Claude 결정·제작자 확인 전) · 0.26: 구현 중 정한 것 반영: 사진 고르기에 capture 없음, F31 진행 문구·결과 제목, F32 상품 0개 문장·단위를 고른 뒤 채울 값 다시 보이기·'개'를 고르면 계산용 개수 비움(2026-10-30, 판정 R7~R9, Claude 결정·제작자 확인 전) · 0.25: 앱 사진 대기 상한 45초 → 60초(요청 하나마다, 서버 55초 + 5초, 2026-10-30, GPT 45번, Claude 결정·제작자 확인 전) · 0.24: 1단계 이어서 F43 AI 성적표·F44 놓을 자리 확인(2026-10-29, GPT 37~41번 상담 반영) · 0.23: 중간 과제 AI 기능 1단계 명세(F31~F33·F35, 2026-10-28, GPT 33~36번 상담 반영) · 0.22까지: 4차 추가(고민 노트) + 다듬기 + 구독 이용 분석 1단계(넷플릭스 시청 기록 파일) + 카드·담기 폼 체크리스트 + 회고를 비슷한 기록에 연결 + 오늘의 고민으로 이동 + 묶음 비교에 한 달에 쓰는 양, 무료배송 탭 뺌(10/13)
 제작자: 강승준  
 완성 목표일: 2026-10-17 (1주 이내)  
 중간 과제(인공지능 프로그래밍) 마감: 미정 (제작자 확인 필요)  
@@ -146,7 +146,7 @@
 
 2026-11-02 제작자 화면 피드백: 글과 구분된 상자가 많고 장식·일관성이 부족하다. 물건·고정비 담기 폼을 접어 첫 화면을 짧게 하고(F24·F45), 쓰는 곳 후보는 눌러 펼친다(F51). 두 빈 상태에는 같은 색·선의 작은 그림, 사이트 제목에는 같은 그림 체계의 표식을 둔다. 주요 접이식 카드의 펼침 표시는 담기 폼과 같은 모양으로 맞춘다. 입력·버튼의 이름과 저장 의미는 유지한다.
 
-2026-11-02 제작자 요청 "기능은 유지하고 디자인과 배치를 바꿔 보기 좋고 쓰기 편하게": 기능·문구·화면 순서는 바꾸지 않고 다음만 바꾼다. 화면 폭 768px 미만에서는 주요 메뉴 다섯 개를 **화면 아래에 고정**하고 글자 이름 옆에 장식 아이콘(낭독기에는 읽히지 않음)을 둔다. 768px 이상에서는 위쪽에 둔다. 가격 비교의 하위 탭은 줄이 깨지지 않게 분할 버튼(좁은 화면 2×2)으로 보인다. 머리글은 위에 붙는다. 가계부 제목 아래에 결제 달력·수입·지출·고정비 목록·공과금·자잘한 지출로 바로 가는 버튼 줄을 둔다(스크롤만 옮기며 내용을 숨기지 않는다). 카드는 선 대신 옅은 그림자, 입력·버튼은 높이 46~50px과 같은 모서리로 맞춘다. 가격 비교 A·B 입력칸은 휴대폰에서도 두 칸씩 나란히 놓아 결과까지의 스크롤을 줄이고, 비교 결과 카드는 강조색 테두리와 결론 한 줄의 강조 바탕으로 먼저 눈에 띄게 한다. 물건 카드는 가격을 크게, 결정 버튼 위에 구분선을 둔다. 누르는 칸 44px 이상과 포커스 표시는 유지한다
+2026-11-02 제작자 요청 "기능은 유지하고 디자인과 배치를 바꿔 보기 좋고 쓰기 편하게": 기능·문구·화면 순서는 바꾸지 않고 다음만 바꾼다. 화면 폭 768px 미만에서는 주요 메뉴 다섯 개를 **화면 아래에 고정**하고 글자 이름 옆에 장식 아이콘(낭독기에는 읽히지 않음)을 둔다. 768px 이상에서는 위쪽에 둔다. 가격 비교의 하위 탭은 줄이 깨지지 않게 분할 버튼(좁은 화면 2×2)으로 보인다. 머리글은 위에 붙는다. 가계부 제목 아래에 결제 달력·수입·지출·고정비 목록·공과금·자잘한 지출로 바로 가는 버튼 줄을 둔다(스크롤만 옮기며 내용을 숨기지 않는다). 카드는 선 대신 옅은 그림자, 입력·버튼은 높이 46~50px과 같은 모서리로 맞춘다. 가격 비교 A·B 입력칸은 휴대폰에서도 두 칸씩 나란히 놓아 결과까지의 스크롤을 줄이고, 비교 결과 카드는 강조색 테두리와 결론 한 줄의 강조 바탕으로 먼저 눈에 띄게 한다. 물건 카드는 가격을 크게, 결정 버튼 위에 구분선을 둔다. 누르는 칸 44px 이상과 포커스 표시는 유지한다. 색감은 제작자가 세 시안(블루·그린·코랄) 중 고른 **세련된 블루**다: 강조 #3b5bdb(흰 바탕 5.67:1), 진한 강조 #2b44b0, 바탕 #f3f5fa, B안 표식 주황 #f59f00. 장식은 정보를 담지 않는다: 화면 제목 앞 아이콘 배지(낭독기에 읽히지 않음), 화면 위쪽의 옅은 빛, 주 버튼·결론 상자의 그라데이션, 메뉴를 바꿀 때 살짝 떠오르는 움직임(움직임 줄이기 설정에서는 끔)
 
 ## 2. 문제와 목표
 

diff --git a/TODO.md b/TODO.md
@@ -1,6 +1,6 @@
 # 살까말까 개발 Todo
 
-기준: [PRD v0.88](./PRD.md)
+기준: [PRD v0.89](./PRD.md)
 제작자: 강승준  
 목표일: 2026-10-17  
 상태: 1차 실습 제출본(v1)은 2026-10-13 완료. 중간 과제 작업본은 14~35단계 구현·자동 검사 완료(`saving`·`main` 브랜치, GitHub Pages 배포 완료). 36단계는 제출용 README 사진·문서 대조, 37단계는 기능을 유지한 디자인·배치 개선. 13-4~13-7 구독 분석과 제작자 판정·실기기 확인·AI 서버 배포는 남아 있음.
@@ -734,6 +734,7 @@
 - [x] **37-3** 가계부 안 바로가기 버튼 줄(`src/ui/JumpNav.tsx`)과 공과금 카드 `id`
 - [x] **37-4** 전체 자동 테스트·린트·타입 검사, 390px·1024px 브라우저 화면 확인, README 비교 사진 다시 찍기
 - [x] **37-6** 2차(제작자 "좀 더 개선"): 가격 비교 A·B 입력칸을 휴대폰에서도 두 줄로 나란히(할인 비교 화면 약 500px 짧아짐), A·B 표식 색 구분, 비교 결과 카드 강조 테두리와 결론 강조 바탕, 요약 숫자 줄 구분, 물건 카드 가격 크게·결정 영역 구분선·비교 링크 칩·보조 버튼 한 단계 작게
+- [x] **37-7** 3차(제작자 "보이는 디자인도"): 색감 시안 3개를 같은 화면으로 찍어 비교, 제작자가 '세련된 블루' 선택. 강조색·바탕·파비콘·theme-color 교체, 하단 메뉴 비선택 글자 대비 3.81:1 → 4.8:1, 화면 제목 아이콘 배지·화면 위쪽 옅은 빛·주 버튼과 결론 상자 그라데이션·탭 전환 움직임(움직임 줄이기 존중)
 - [ ] **37-5** 제작자 화면·실기기 확인 뒤 `main` 반영 여부 결정
 
 ## 추가 제안
